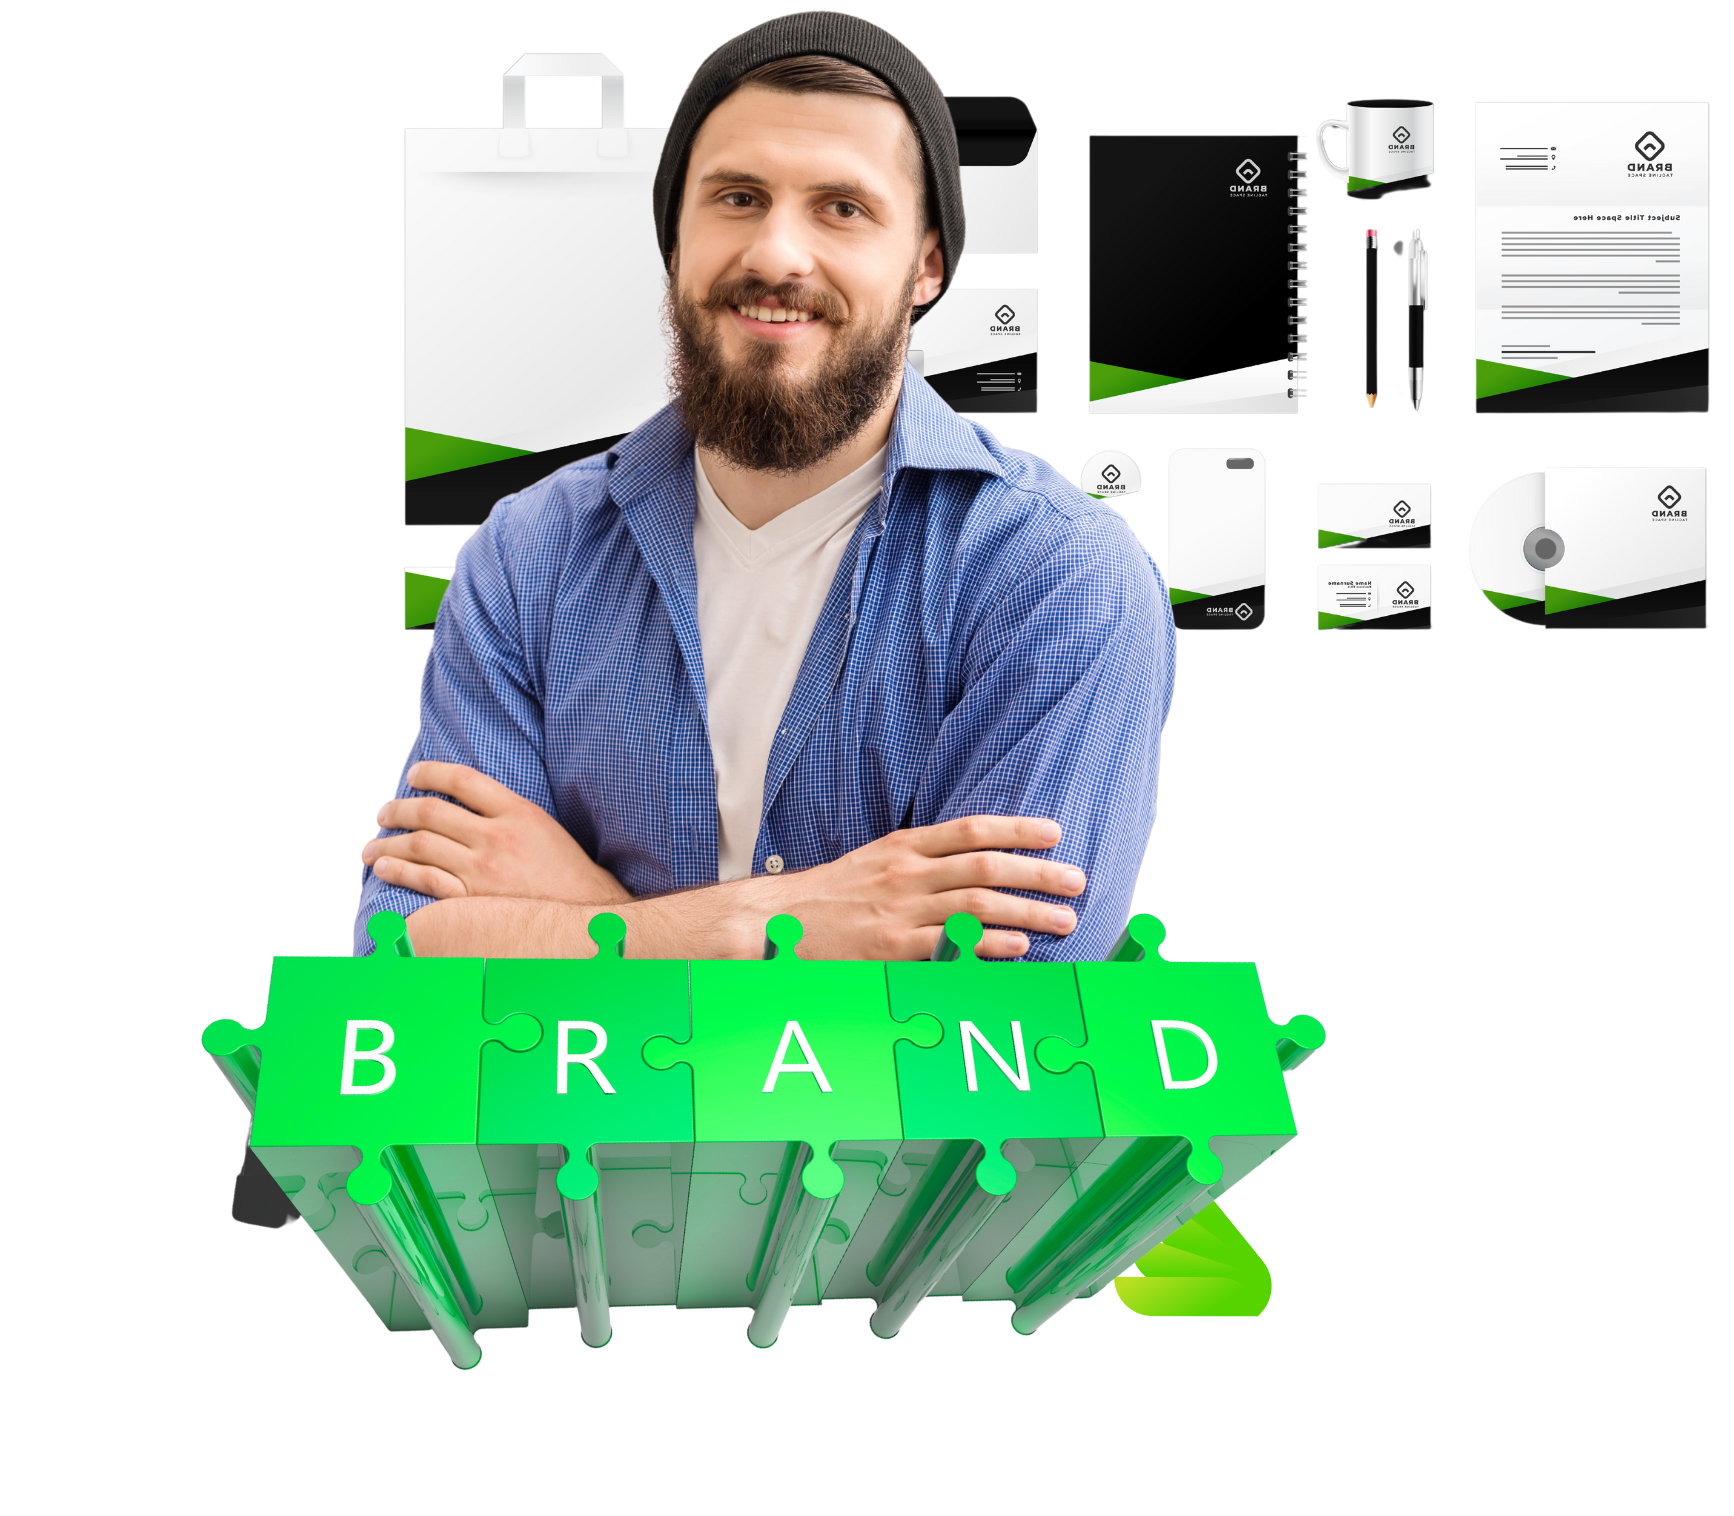
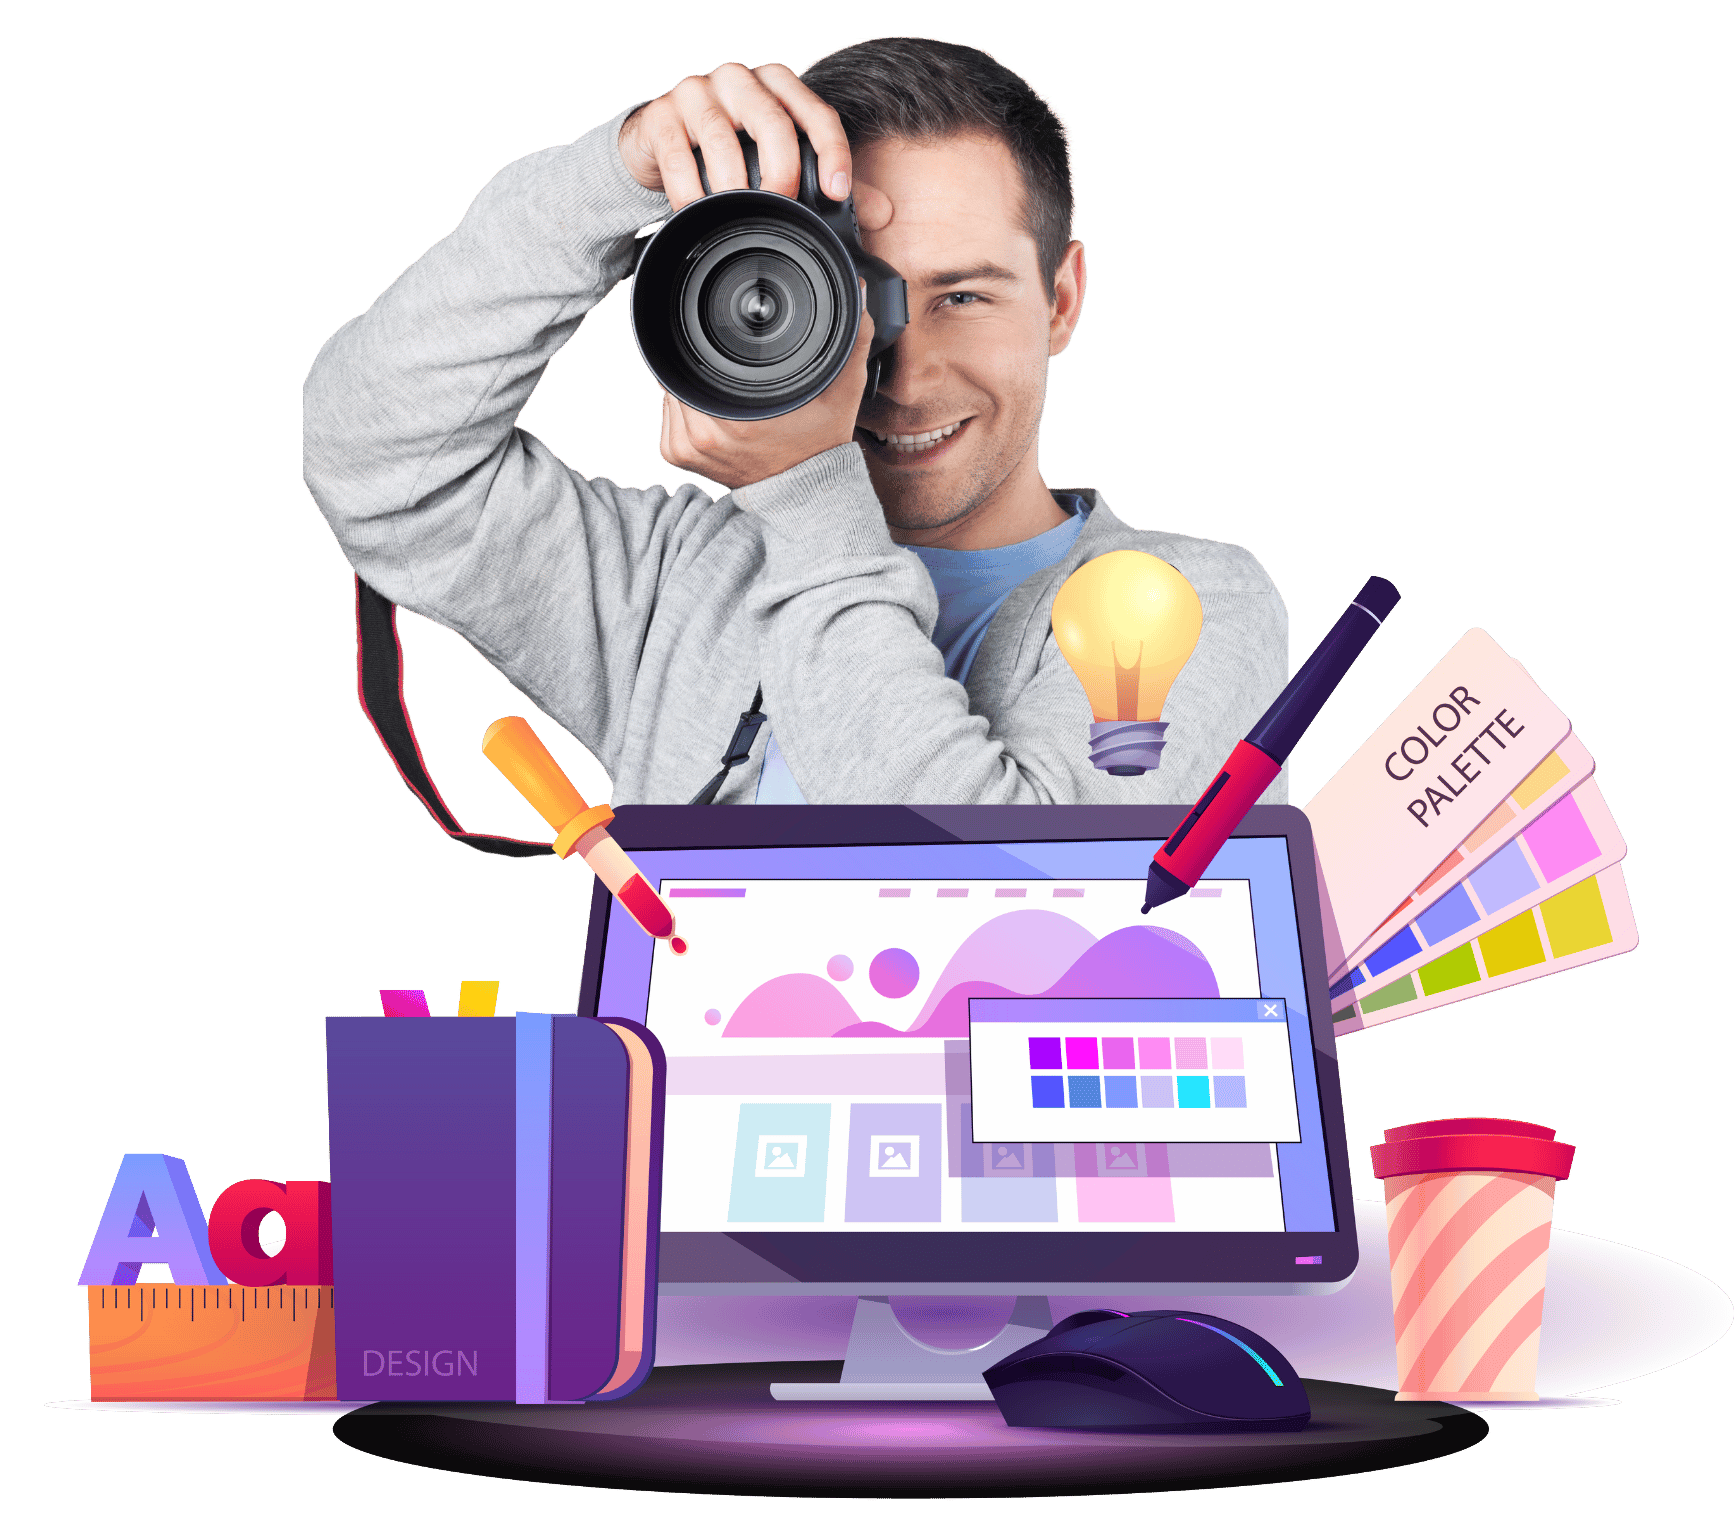
added commit for updte homepage design

diff --git a/src/components/members/Members.tsx b/src/components/members/Members.tsx
@@ -21,7 +21,7 @@ export default function Members() {
     // Define responsive settings for different screen sizes
     desktop: {
       breakpoint: { max: 3000, min: 1024 },
-      items: 6,
+      items: 5,
       slidesToSlide: 1,
       showDots: false,
     },
@@ -34,7 +34,7 @@ export default function Members() {
     mobile: {
       breakpoint: { max: 464, min: 0 },
       items: 2,
-      slidesToSlide: 1,
+      slidesToSlide: 2,
       showDots: true,
     },
   };
@@ -55,8 +55,8 @@ export default function Members() {
             <Member
               {...member}
               key={index}
-              //   setHoverId={setHoverId}
-              //   hoverId={hoverId}
+            //   setHoverId={setHoverId}
+            //   hoverId={hoverId}
             />
           ))}
       </Carousel>

diff --git a/src/components/HomePage/Banner/Banner.tsx b/src/components/HomePage/Banner/Banner.tsx
@@ -4,7 +4,7 @@ import Image from "next/image";
 
 export default function Banner() {
   return (
-    <section className=" bg-gradient-to-br from-blue-900 via-blue-800 to-blue-500 shadow  mx-auto  items-center">
+    <section className=" bg-gradient-to-br from-blue-900 via-slate-900 to-blue-900 shadow  mx-auto  items-center">
       <div className=" container mx-auto px-4 pt-16 mb-12 grid grid-cols-1 md:grid-cols-2 text-gray-100 items-center justify-center">
         <div>
           <h1 className="text-5xl font-bold my-8">
@@ -20,8 +20,8 @@ export default function Banner() {
           </p>
           <Button className="my-8 bg-primary">Hire Expert</Button>
         </div>
-        <div className="flex items-center justify-center gap-4 mt-2 ">
-          <Image src={bannerimg} alt="" width={400} />
+        <div className="flex items-center justify-center gap-4 my-4 ">
+          <Image src={bannerimg} alt="" width={500} />
         </div>
       </div>
     </section>

diff --git a/src/components/HomePage/PopularServices/TrendingOffers.tsx b/src/components/HomePage/PopularServices/TrendingOffers.tsx
@@ -72,7 +72,7 @@ const offers: OfferType[] = [
 const PopularServices = () => {
   return (
     <section className="container mx-auto px-4 ">
-      <Heading heading="Trending Offers" />
+      <Heading heading="Trending Offers" className="mt-10" />
       <Heading subheading="Browse the trending offers that you currently need" />
 
       <div className="grid grid-cols-1 md:grid-cols-2 lg:grid-cols-4 gap-5 mt-6">

diff --git a/src/components/heading/Heading.tsx b/src/components/heading/Heading.tsx
@@ -15,7 +15,7 @@ export default function Heading({
   className,
 }: HeadingProps) {
   const headingClasses = cn(
-    "font-bold leading-tight",
+    "leading-tight",
     {
       "text-2xl md:text-3xl lg:text-4xl": size === "sm",
       "text-3xl md:text-4xl lg:text-5xl": size === "md",